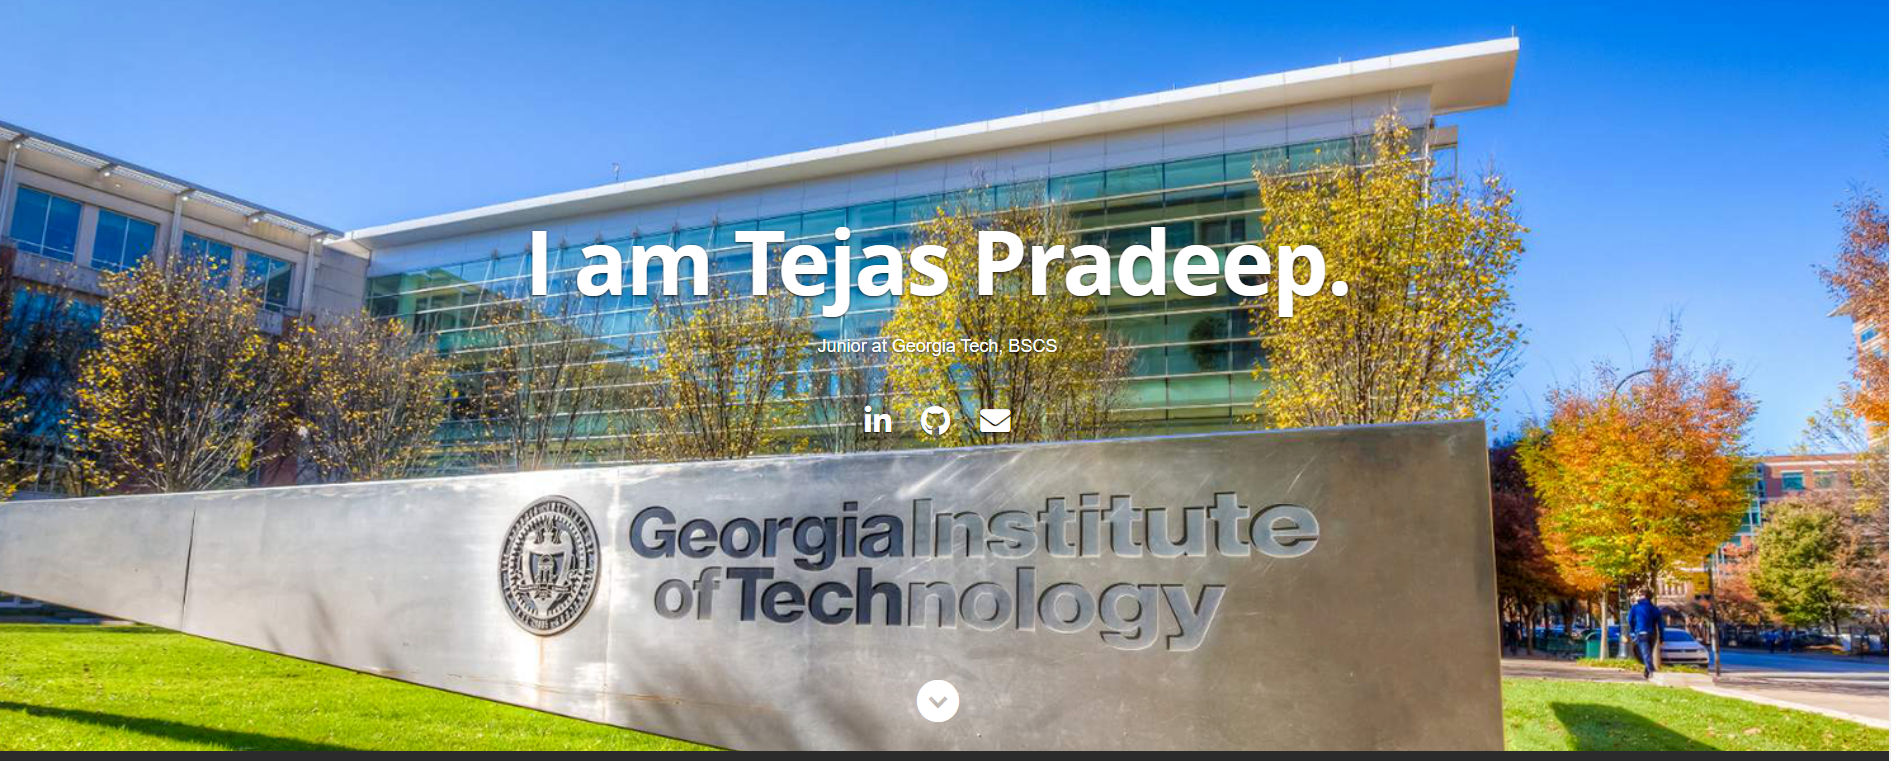
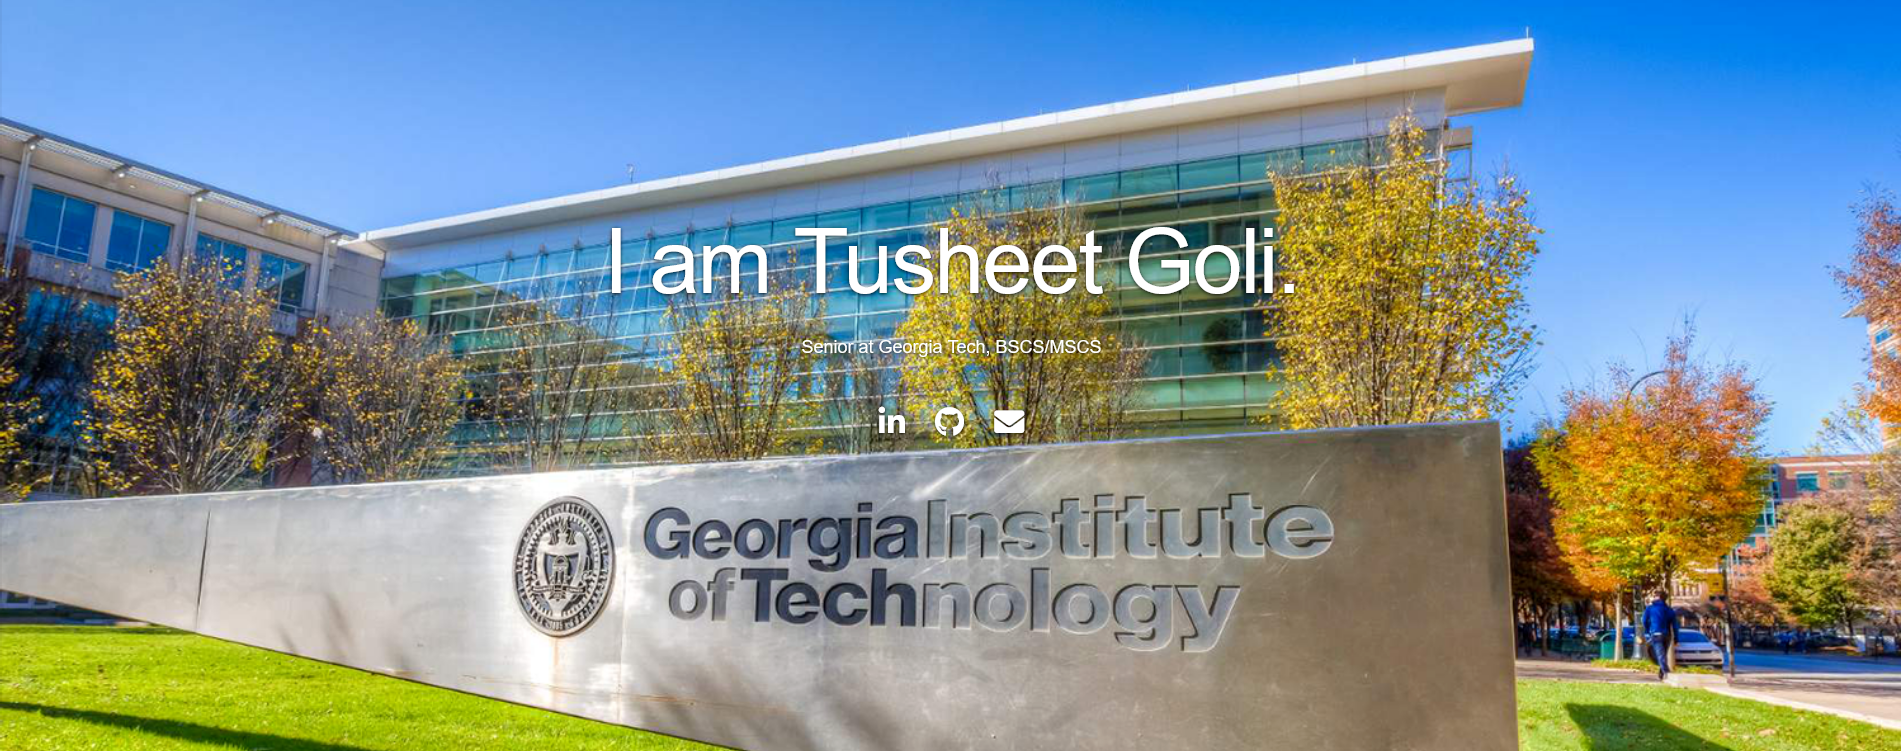
changed og image, uncommented css

diff --git a/src/css/fonts.css b/src/css/fonts.css
@@ -3,7 +3,7 @@
 /*
  * Open Sans
 ================================================================================ */
-/* @font-face {
+@font-face {
     font-family: 'opensans-regular';
     src: url('fonts/opensans/OpenSans-Regular-webfont.eot');
     src: url('fonts/opensans/OpenSans-Regular-webfont.eot?#iefix') format('embedded-opentype'),
@@ -102,12 +102,12 @@
     url('fonts/opensans/OpenSans-ExtraBoldItalic-webfont.svg#open_sansextrabold_italic') format('svg');
     font-weight: normal;
     font-style: normal;
-} */
+}
 
 /*
  * Libre Baskerville
 ================================================================================ */
-/* @font-face {
+@font-face {
     font-family: 'librebaskerville-bold';
     src: url('fonts/librebaskerville/librebaskerville-bold-webfont.eot');
     src: url('fonts/librebaskerville/librebaskerville-bold-webfont.eot?#iefix') format('embedded-opentype'),
@@ -136,13 +136,13 @@
     url('fonts/librebaskerville/librebaskerville-regular-webfont.svg#libre_baskervilleregular') format('svg');
     font-weight: normal;
     font-style: normal;
-} */
+}
 
 
 /*
  * FIXED for Font-Face Chrome Rendering
 ================================================================================ */
-/* @media screen and (-webkit-min-device-pixel-ratio:0) {
+@media screen and (-webkit-min-device-pixel-ratio:0) {
 
     @font-face {
         font-family: 'opensans-semibold';
@@ -154,4 +154,4 @@
         src: url('fonts/opensans/OpenSans-Bold-webfont.svg#open_sansbold') format('svg');
     }
 
-} */
+}

diff --git a/public/index.html b/public/index.html
@@ -6,14 +6,14 @@
     <meta name="theme-color" content="#000000" />
     <meta
       name="description"
-      content="Personal Portfolio created using a React App."
+      content="Tusheet Goli Personal Portfolio created using a React App."
     />
     <meta property="og:title" content="Tusheet Goli Portfolio" />
     <meta property="og:type" content="image/png" />
     <meta property="og:url" content="https://tusheet10goli.github.io/Tusheet-Website/" />
-    <meta property="og:image" content="%PUBLIC_URL%/public_images/og_image.PNG" />
+    <meta property="og:image" content="%PUBLIC_URL%/public_images/og_image.png" />
     <link rel="apple-touch-icon" href="%PUBLIC_URL%/logo192.png" />
-    <link rel="icon" href="%PUBLIC_URL%/public_images/portfolio.png"/>
+    <link rel="icon" href="%PUBLIC_URL%/public_images/TusheetImage.jpg" />
     <!--
       manifest.json provides metadata used when your web app is installed on a
       user's mobile device or desktop. See https://developers.google.com/web/fundamentals/web-app-manifest/

diff --git a/src/css/default.css b/src/css/default.css
@@ -21,7 +21,7 @@ e. Others
  ------------------------------------------------------------------ */
 
 @import url("fonts.css");
-/* @import url("../../node_modules/fontello/css/fontello.css"); */
+@import url("../../node_modules/fontello/css/fontello.css");
 @import url("../../node_modules/font-awesome/css/font-awesome.min.css");
 
 
